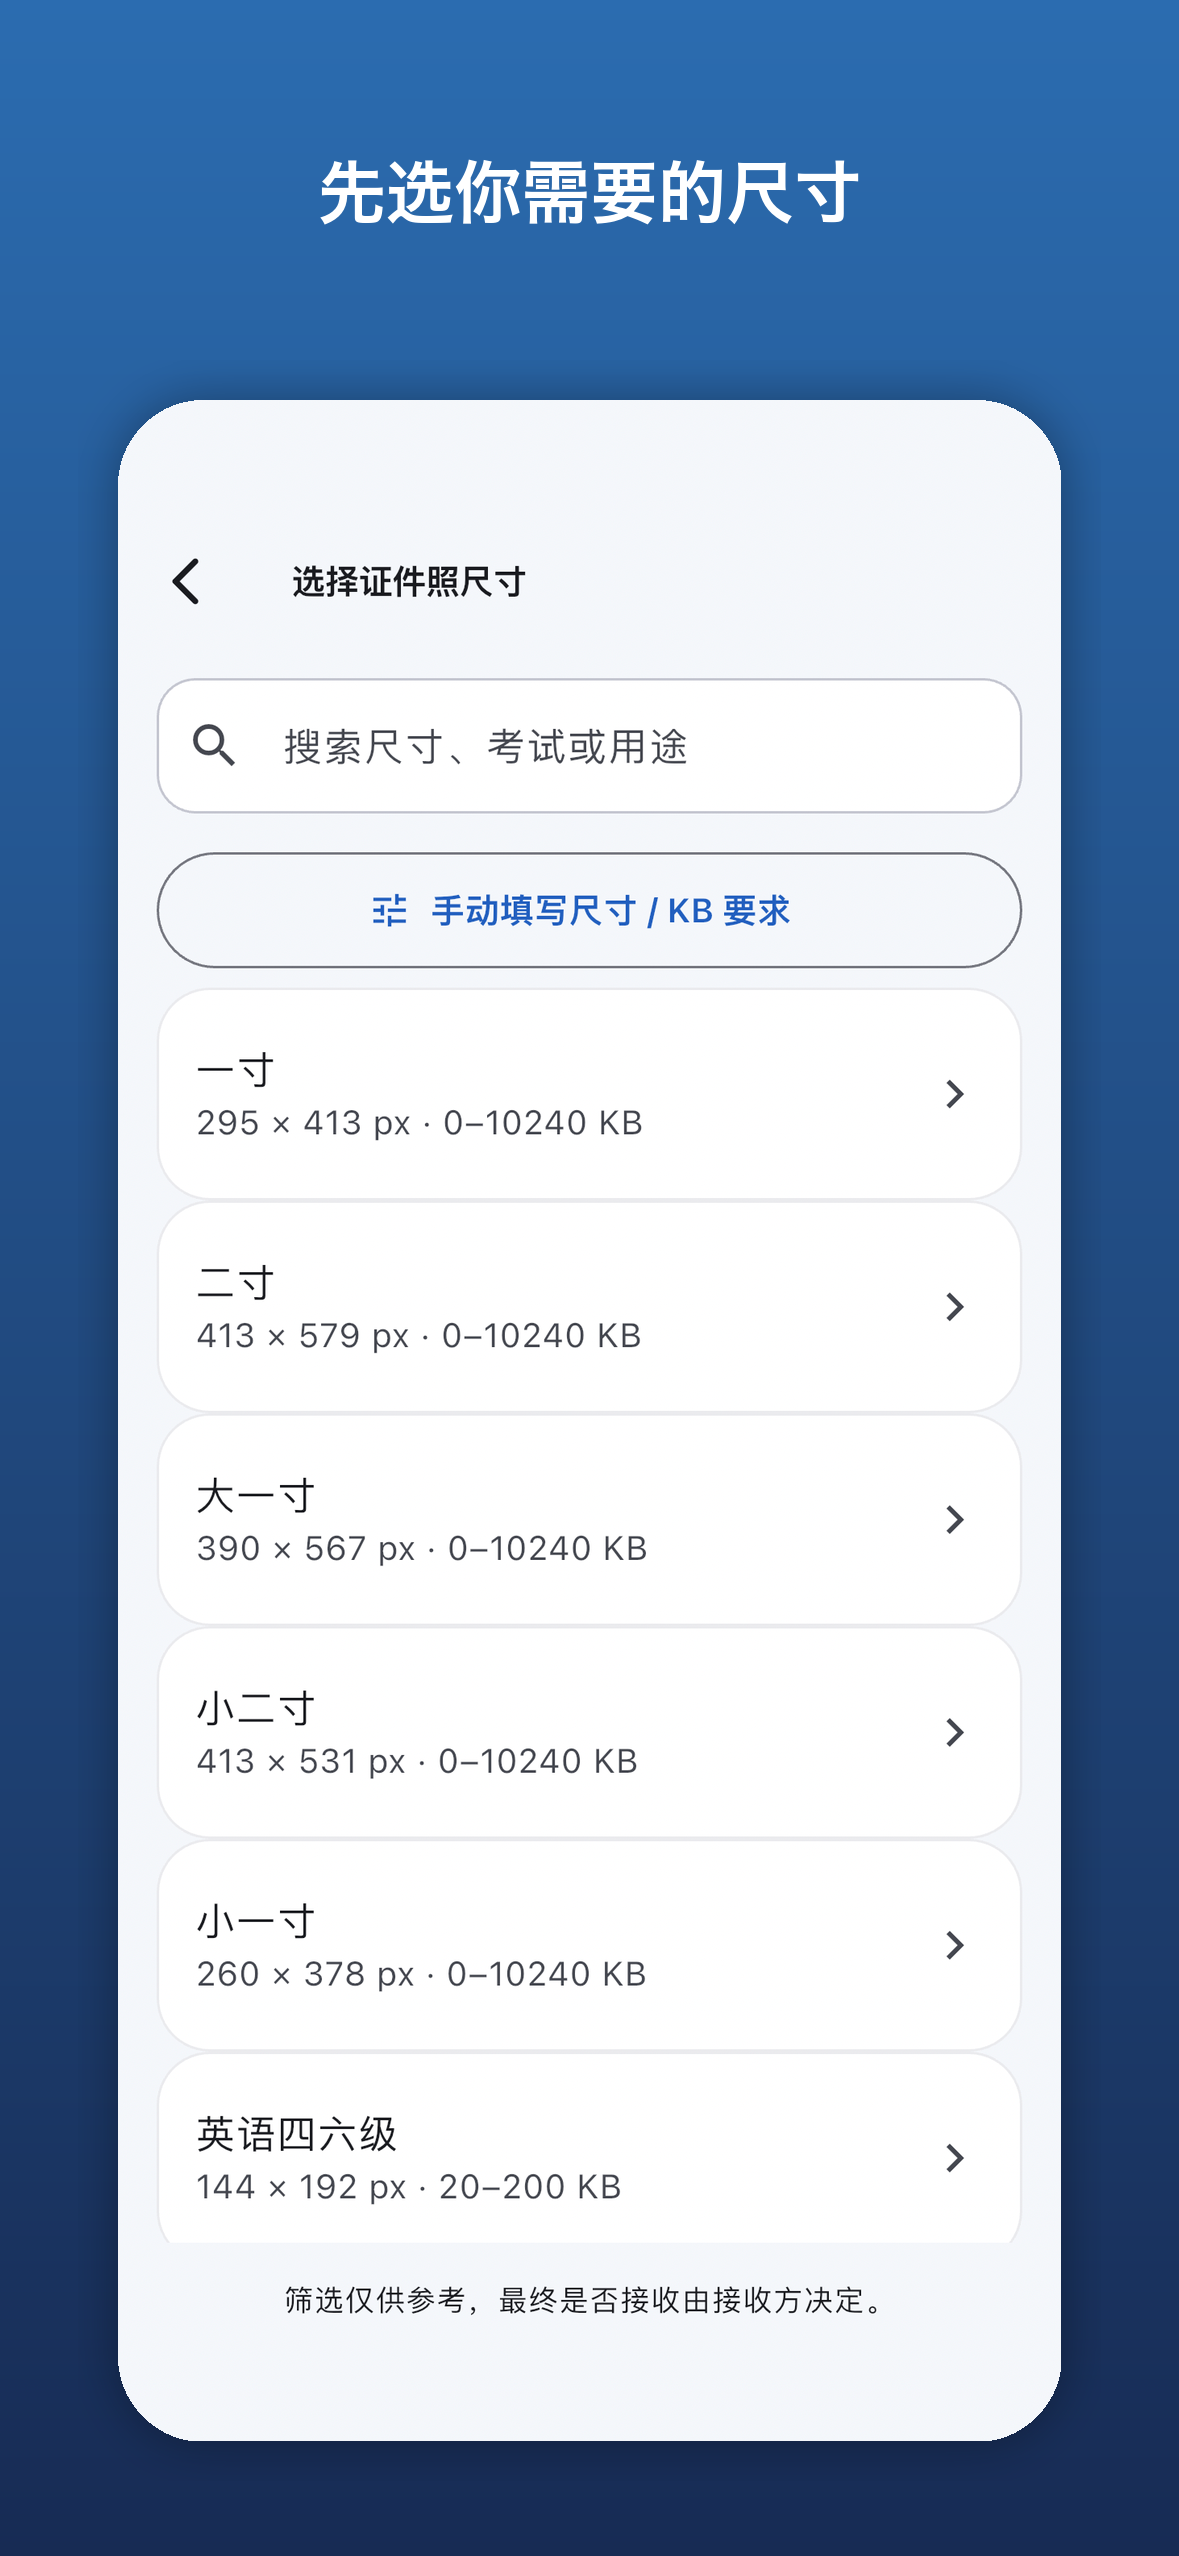
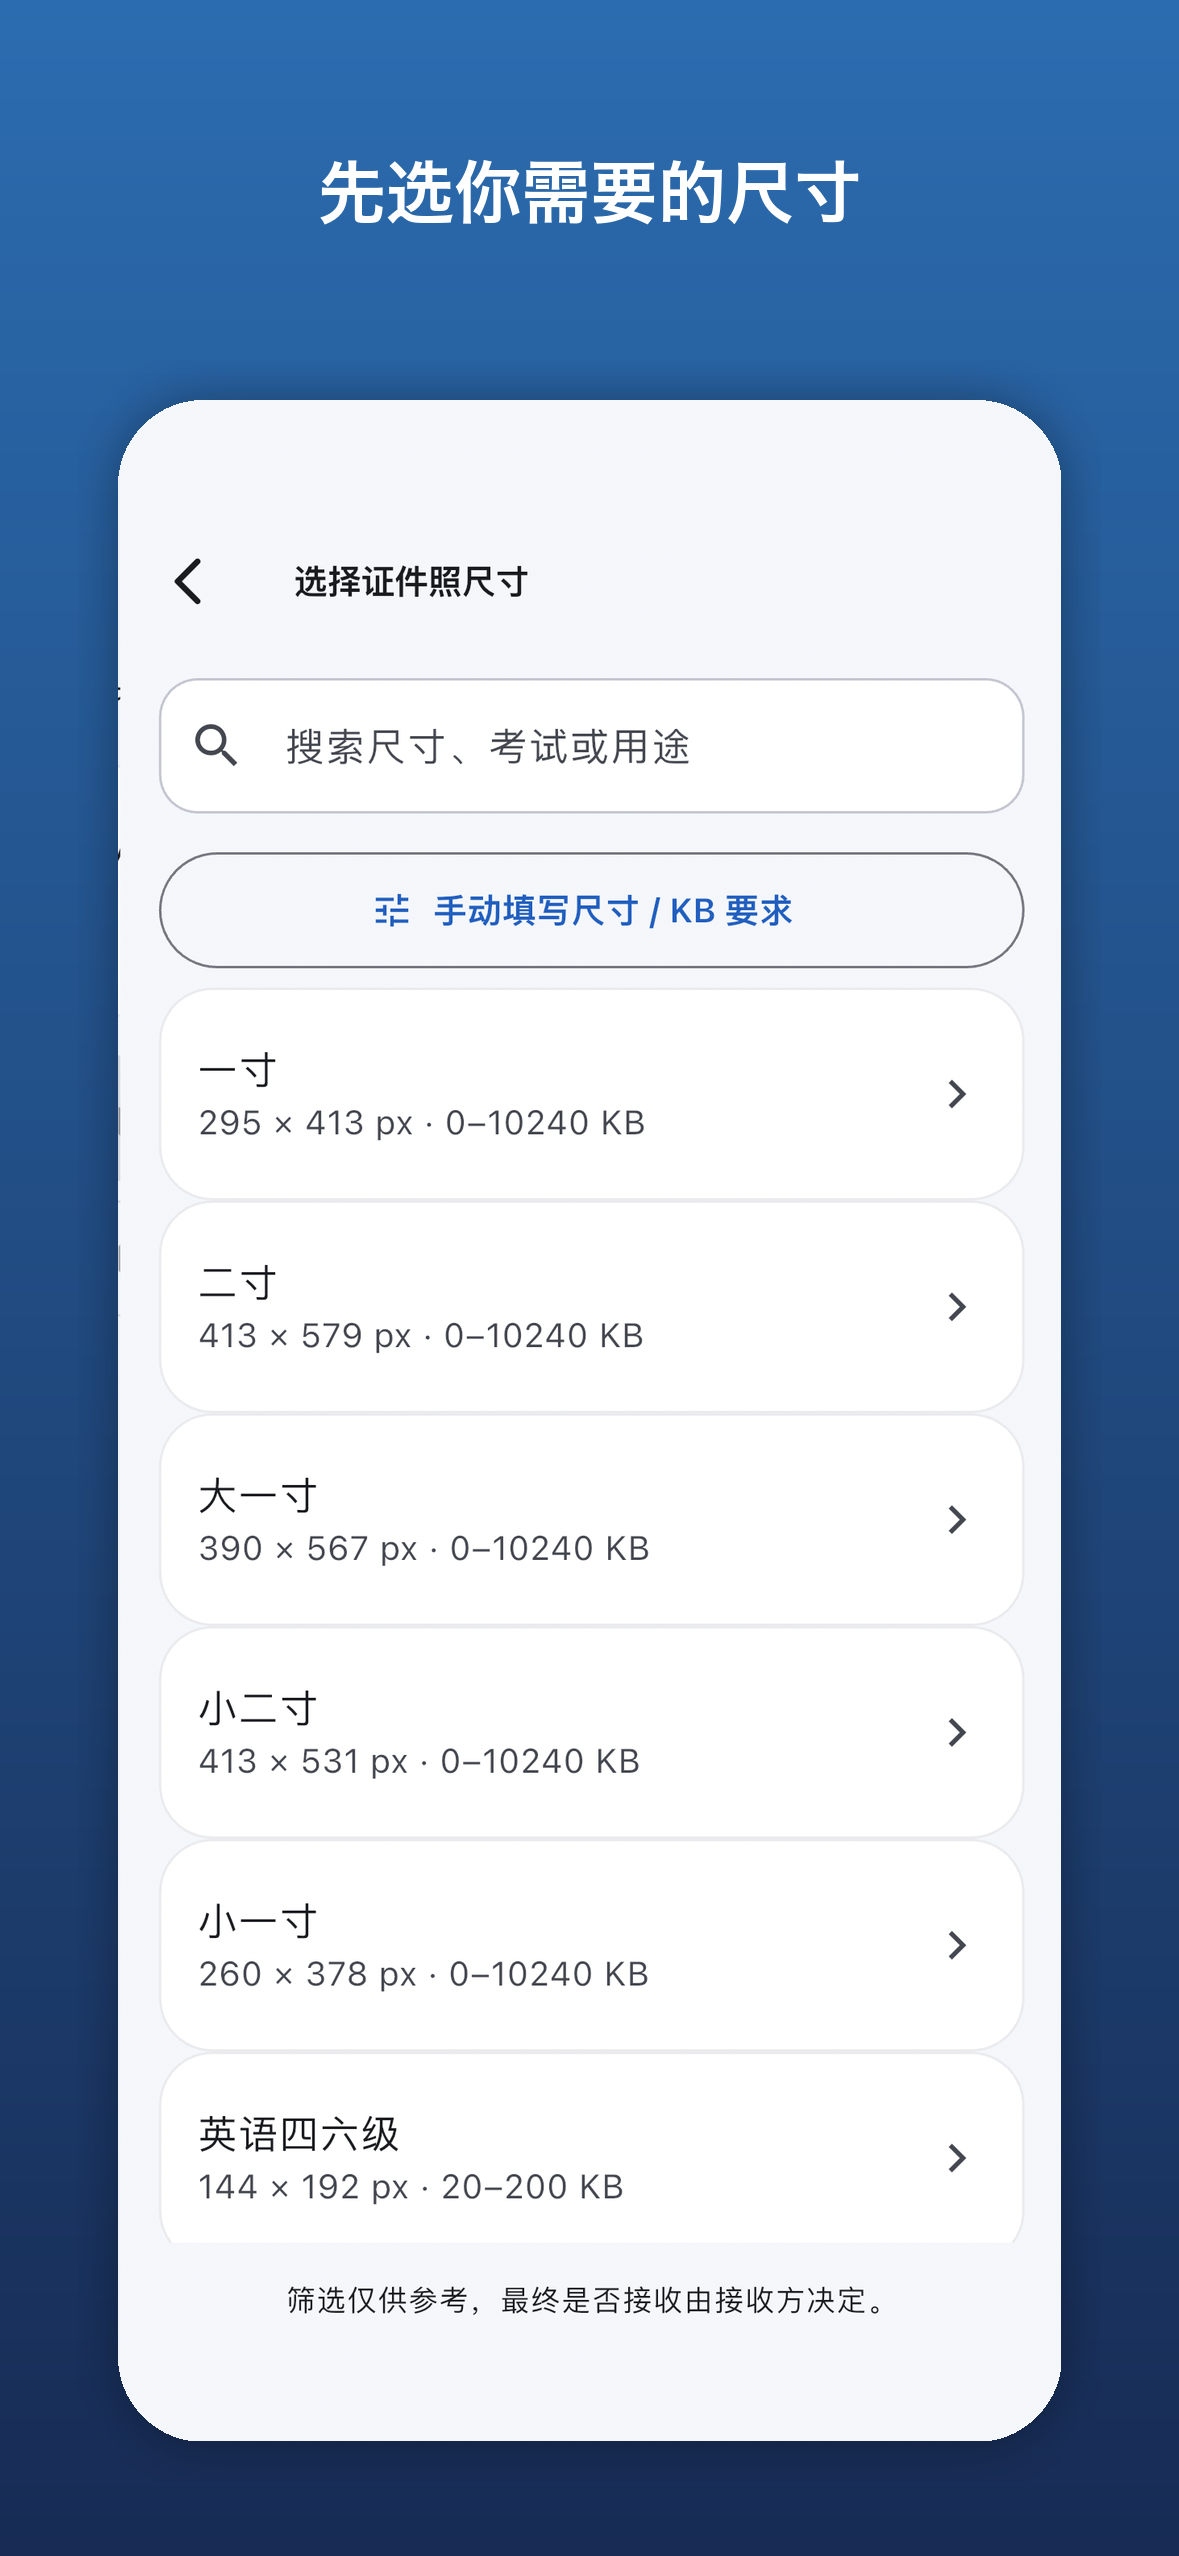
fix(test): 04 帧条件滚动，搜索框与重排网格同框
run34 无脑 scrollUntilVisible 把查询输入框滚出画面，营销叙事
（一句话→重排）断裂；首卡已在屏内则保持原位不滚。

diff --git a/integration_test/enhanced_capture_test.dart b/integration_test/enhanced_capture_test.dart
@@ -181,12 +181,17 @@ void main() {
         }
         final firstCard =
             find.byKey(const ValueKey('finder-result-portrait.jpg'));
-        try {
-          await tester.scrollUntilVisible(firstCard, 300,
-              scrollable: find.byType(Scrollable).first);
-          await tester.pump(const Duration(milliseconds: 500));
-        } catch (_) {
-          // 滚到底仍未找到时保持当前画面截图，不中断整轮采集。
+        // 首卡已在首屏则不滚，搜索框与网格同框讲「一句话排序」；
+        // 仅首卡出屏时小幅滚动入镜（run34 复盘：无脑滚动把输入框滚没了）。
+        if (firstCard.evaluate().isNotEmpty) {
+          final top = tester.getRect(firstCard).top;
+          if (top < 0 || top > 650) {
+            try {
+              await tester.drag(find.byType(Scrollable).first,
+                  const Offset(0, -350));
+              await tester.pump(const Duration(milliseconds: 400));
+            } catch (_) {}
+          }
         }
         note('rank-done-$lang');
         await export(lang, '04_enhanced', await binding.takeScreenshot('enhanced-$lang'));
